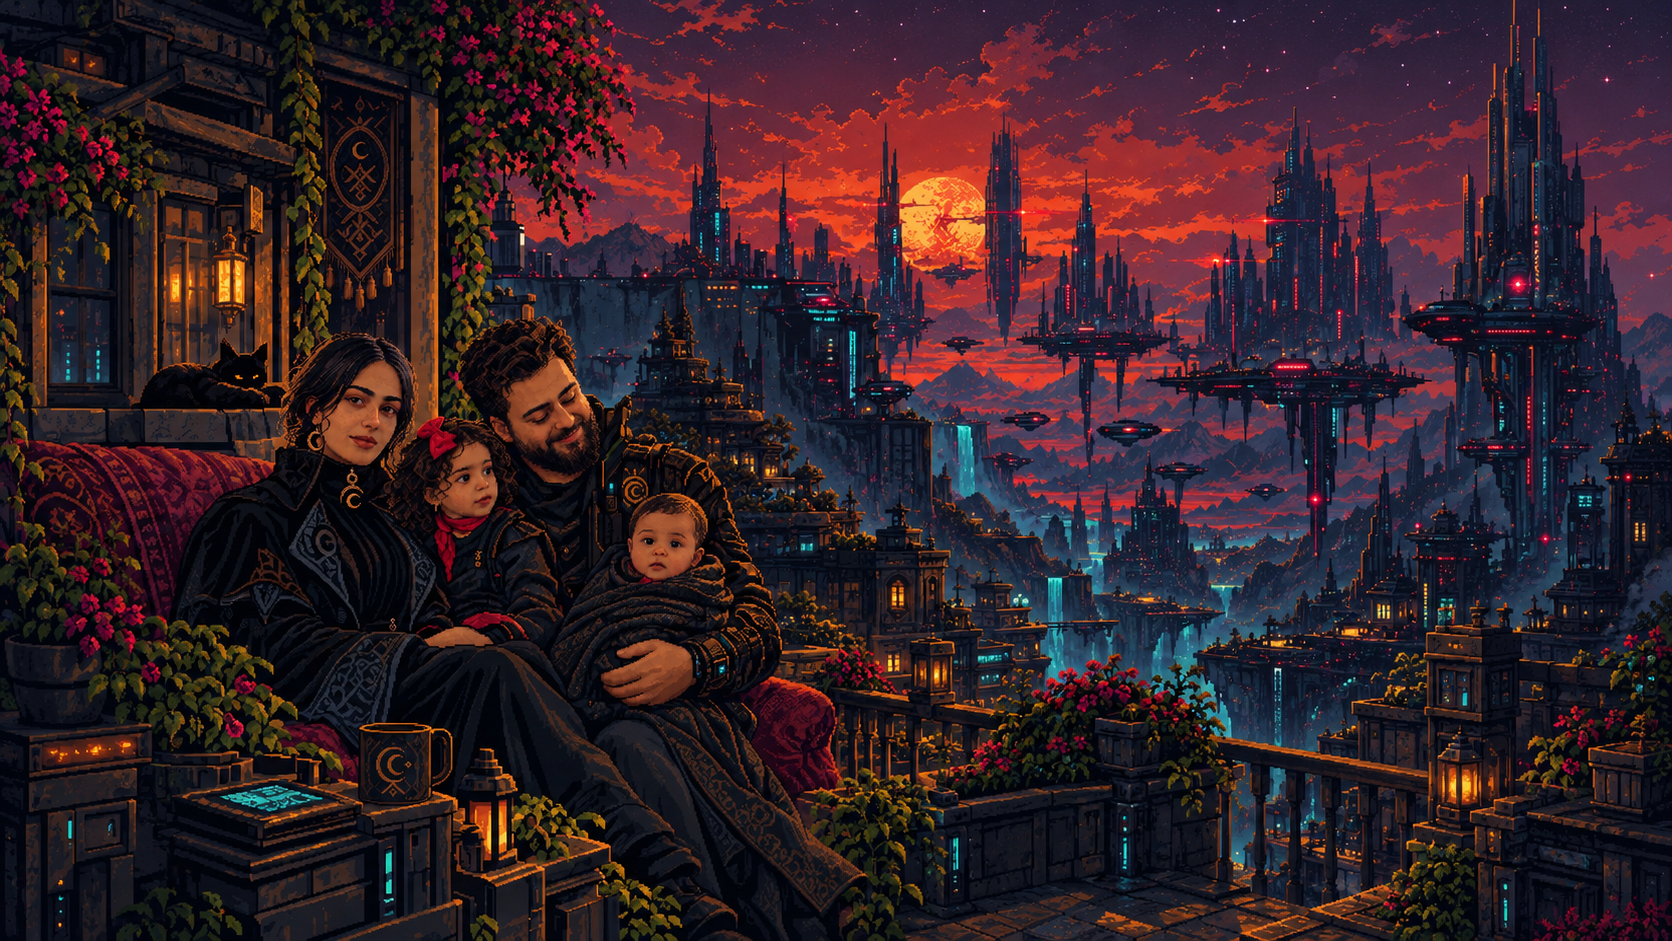
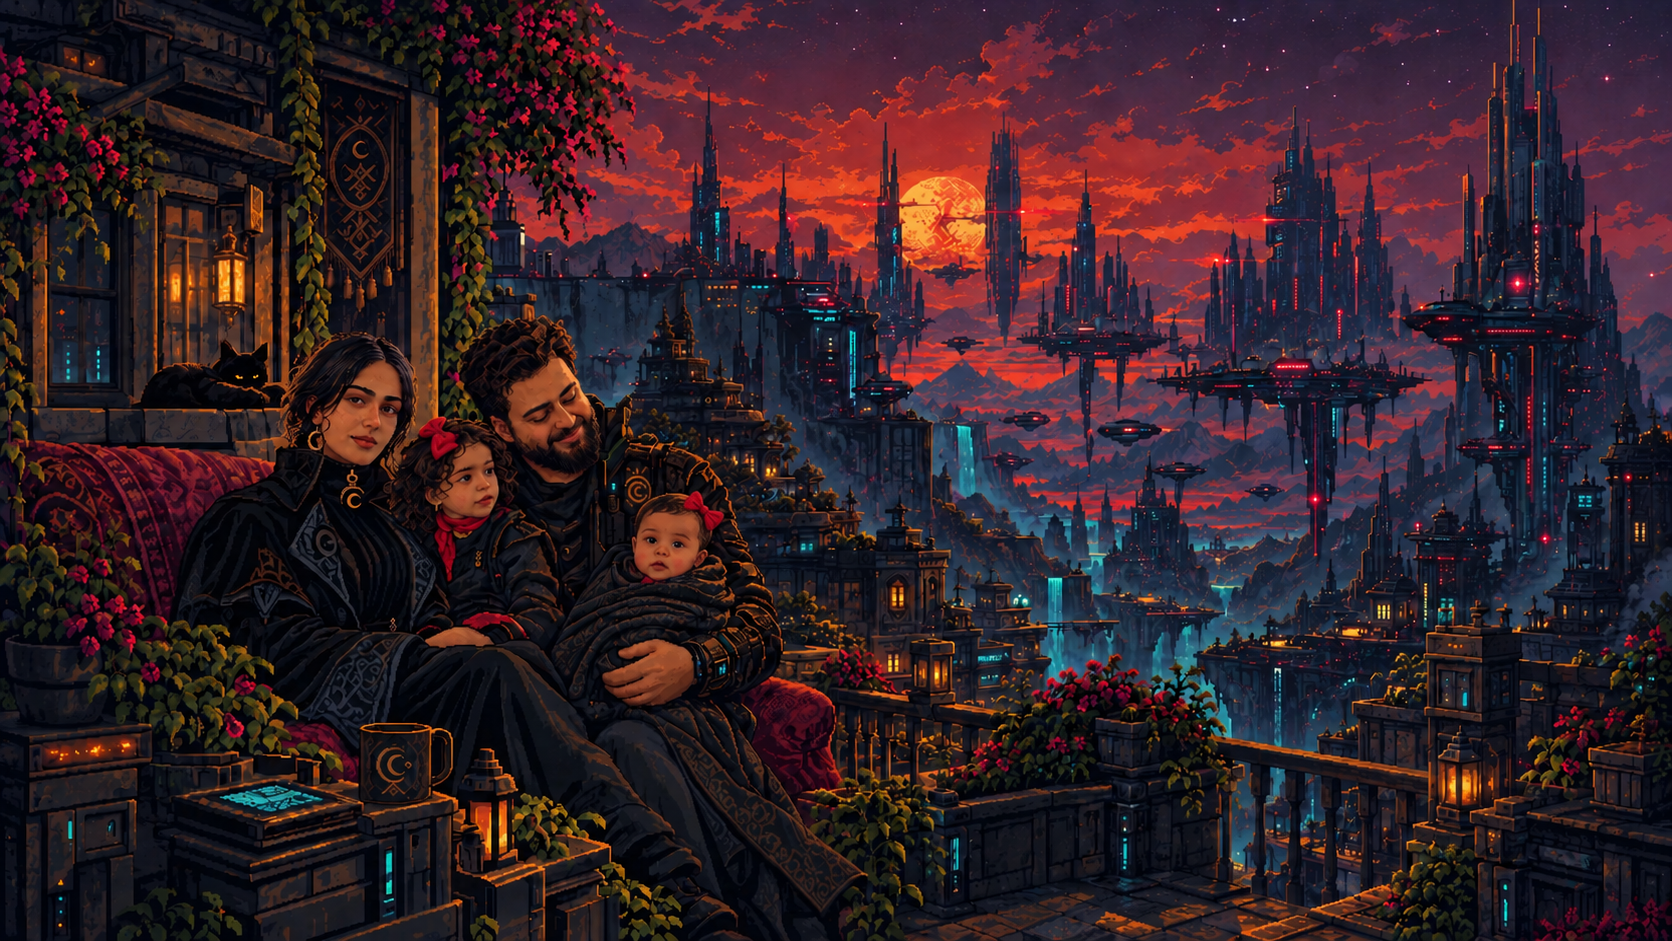
refactor: increase petal spawn limits and adjust sizes for better visual effect

diff --git a/src/scene.js b/src/scene.js
@@ -1187,10 +1187,10 @@
 
   function maybeSpawnFallingPetal(t) {
     if (!controls.petals.checked || !foliageRegions.length) return;
-    if (fallingPetals.length > 5) return;
+    if (fallingPetals.length > 20) return;
 
     // About every 4-8 seconds on average.
-    if (Math.random() > 0.0105) return;
+    if (Math.random() > 0.03) return;
 
     const eligible = foliageRegions.filter(r => r.petalCandidates && r.petalCandidates.length);
     if (!eligible.length) return;
@@ -1205,7 +1205,7 @@
       sway: .6 + Math.random()*1.3,
       rot: Math.random()*Math.PI*2,
       vr: (Math.random()-.5) * .08,
-      size: src.type === "petal" ? 3 : 4,
+      size: src.type === "petal" ? 6 : 10,
       color: src.color,
       type: src.type,
       life: 0,
@@ -2319,9 +2319,9 @@
       ctx.globalAlpha = (.45 + I*.25) * fade;
       ctx.fillStyle = `rgb(${p.color[0]},${p.color[1]},${p.color[2]})`;
       if (p.type === "leaf") {
-        ctx.fillRect(-1.5, -2.5, 3, 5);
+        ctx.fillRect(-1.5, -2.5, 7, 5);
       } else {
-        ctx.fillRect(-1.5, -1.5, 3, 3);
+        ctx.fillRect(-1.5, -1.5, 7, 3);
       }
       ctx.restore();
     }
